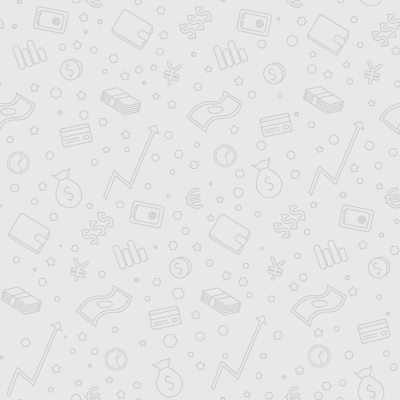
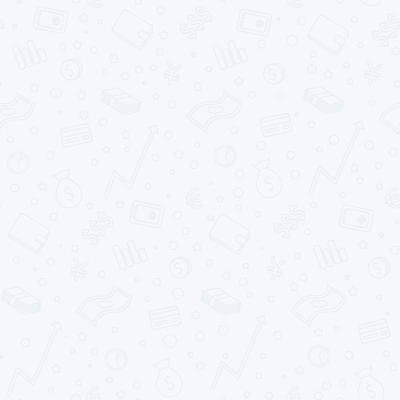
Style updates

diff --git a/app/javascript/components/history/Main.jsx b/app/javascript/components/history/Main.jsx
@@ -41,12 +41,12 @@ class Main extends React.Component {
   renderEmptyState() {
     if (this.props.hasData) { return '' }
     return (
-      <div className="flex row-flex flex-space-between text-center-sm">
+      <div className="empty-or-error-status">
         <div className="status-text">
-          <h2>Oops, our historian has nothing to do!</h2>
-          <div className="mt-20">As you start tracking your expenses they will show here.</div>
+          <h2>Our historian has nothing to do!</h2>
+          <div>The expenses you enter will show up here.</div>
         </div>
-        <img className="mt-50 status-image" src={window.historian} />
+        <img className="status-image" src={window.historian} />
       </div>
     )
   }
@@ -56,14 +56,14 @@ class Main extends React.Component {
     return (
       <div>
         <div className="flex row-flex flex-space-between">
-          <b className="mb-10">Expense History</b>
-          <div className="input-group inline small-datepicker mb-10">
+          <b>Expense History</b>
+          <div className="input-group inline small-datepicker mt-10-sm">
             <DatePicker onChange={this.handlePaidAtMinChange} value={moment.unix(this.state.minPaidAt).toDate()} />
             <span className="mh-5 mt-5">-</span>
             <DatePicker onChange={this.handlePaidAtMaxChange} value={moment.unix(this.state.maxPaidAt).toDate()} />
           </div>
         </div>
-        <div className="overflow-x mt-50">
+        <div className="overflow-x mt-30 bg-gray p-10">
           <table className="table">
             <thead>
               <tr>
@@ -94,7 +94,7 @@ class Main extends React.Component {
         <td>{expense.category.name}</td>
         <td>{Numerics.centsToDollars(expense.amount)}</td>
         <td>{expense.description}</td>
-        <td><a onClick={() => this.handleExpenseDelete(expense.id)}><i className="fa fa-times"></i></a></td>
+        <td><a onClick={() => this.handleExpenseDelete(expense.id)} className="dim-til-hover"><i className="fa fa-times"></i></a></td>
       </tr>
     )
   }

diff --git a/app/assets/stylesheets/empty_states_and_errors.scss b/app/assets/stylesheets/empty_states_and_errors.scss
@@ -1,16 +1,35 @@
-.status-image {
-  width: 450px;
-  max-width: 100%;
-}
+.empty-or-error-status {
+  padding: 60px 40px;
+  text-align: center;
+  background: #EEF0F5;
 
-.status-text {
-  background: #eee;
-  padding: 25px;
-  border-radius: 5px;
-}
-
-@media (min-width: 750px) {
   .status-image {
-    margin-left: 30px;
+    width: 450px;
+    max-width: 100%;
+    margin-top: 50px;
+  }
+
+  .status-text {
+    background: #eee;
+    border-radius: 5px;
+  }
+
+  h2 {
+    margin-bottom: 10px;
+  }
+}
+
+@media (min-width: 900px) {
+  .empty-or-error-status {
+    padding: 60px 70px;
+    display: flex;
+    justify-content: space-between;
+    align-items: center;
+    text-align: left;
+
+    .status-image {
+      margin-left: 25px;
+      margin-top: 0;
+    }
   }
 }

diff --git a/app/assets/stylesheets/nav.scss b/app/assets/stylesheets/nav.scss
@@ -9,7 +9,8 @@
     li {
       width: 100%;
       &.active {
-        background: #eee;
+        font-weight: 900;
+        color: #000;
       }
     }
     a {
@@ -36,7 +37,8 @@
     }
 
     .active a {
-      text-decoration: underline
+      font-weight: 900;
+      color: #000;
     }
 
     .nav-items-responsive {

diff --git a/app/assets/stylesheets/grid.scss b/app/assets/stylesheets/grid.scss
@@ -11,8 +11,8 @@
   display: block !important;
 }
 
-.text-center-sm {
-  text-align: center;
+.mt-10-sm {
+  margin-top: 10px;
 }
 
 @media (min-width: 750px) {
@@ -79,7 +79,7 @@
     display: flex !important;
   }
 
-  .text-center-sm {
-    text-align: left;
+  .mt-10-sm {
+    margin-top: 0;
   }
 }

diff --git a/app/assets/stylesheets/utils.scss b/app/assets/stylesheets/utils.scss
@@ -51,12 +51,24 @@
   padding-top: 100px;
 }
 
+.p-10 {
+  padding: 10px;
+}
+
 .mt-100 {
   margin-top: 100px;
 }
 
+.mt-30 {
+  margin-top: 30px;
+}
+
 .mt-20 {
   margin-top: 20px;
+}
+
+.mt-10 {
+  margin-top: 10px;
 }
 
 .mt-5 {

diff --git a/app/assets/stylesheets/table.scss b/app/assets/stylesheets/table.scss
@@ -9,7 +9,11 @@
   }
 
   th, td {
-    border-bottom: 2px solid #eee;
+    border-bottom: 2px solid #e3e2e8;
     padding: 15px;
+  }
+
+  tr:last-child td {
+    border-bottom: none;
   }
 }

diff --git a/app/assets/stylesheets/pages/categories.scss b/app/assets/stylesheets/pages/categories.scss
@@ -4,7 +4,7 @@
   padding: 20px;
   background: white;
   margin-top: 40px;
-  box-shadow: 2px 2px #717171;
+  box-shadow: 2px 2px #dee1ea;
   height: 110px;
   position: relative;
 

diff --git a/app/assets/stylesheets/login.scss b/app/assets/stylesheets/login.scss
@@ -1,6 +1,6 @@
 body.unauthenticated {
   text-align: center;
-  background: rgb(231, 231, 231);
+  background: #EEF0F5;
   padding-top: 100px;
 }
 

diff --git a/app/assets/stylesheets/global.scss b/app/assets/stylesheets/global.scss
@@ -26,7 +26,7 @@ b, span {
 }
 
 .bg-gray {
-  background: #edebec;
+  background: #EEF0F5;
 }
 
 a {
